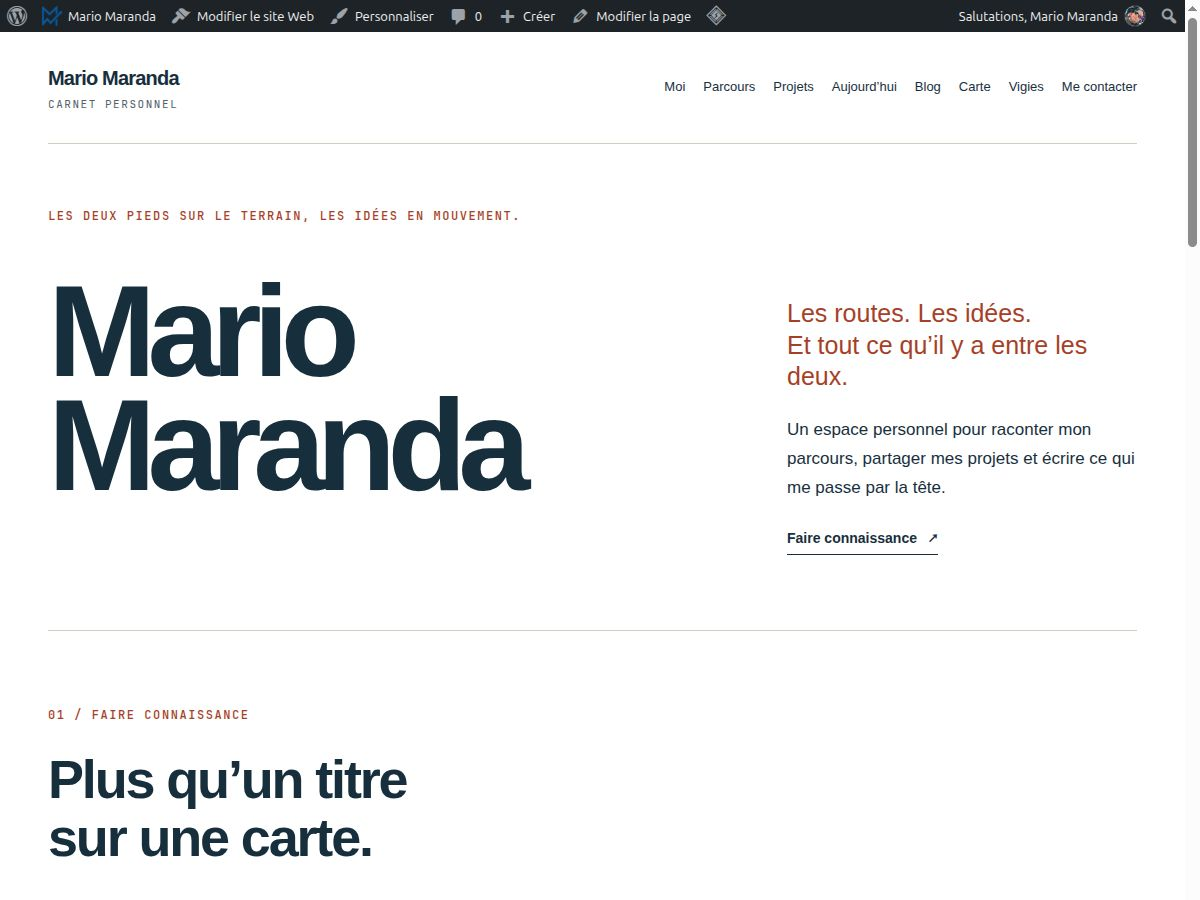
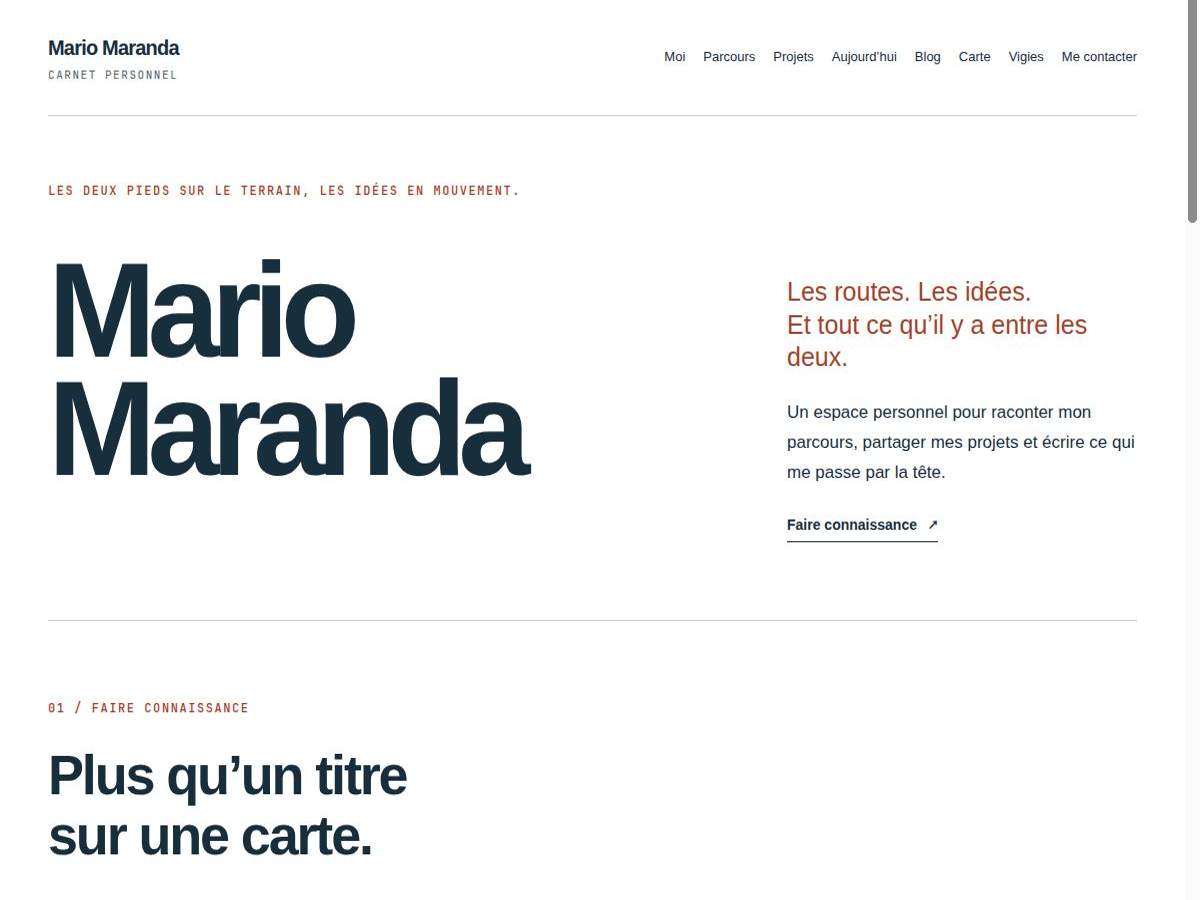
Crop admin toolbar from theme preview

diff --git a/style.css b/style.css
@@ -4,7 +4,7 @@ Theme URI: https://www.maranda.dev/
 Update URI: https://github.com/maranda-dev/maranda-wp-theme
 Author: Mario Maranda
 Description: Un thème WordPress en blocs pour un parcours personnel, des projets et un carnet libre.
-Version: 0.1.5
+Version: 0.1.6
 Requires at least: 6.6
 Requires PHP: 8.1
 Text Domain: maranda

diff --git a/functions.php b/functions.php
@@ -1,6 +1,6 @@
 <?php
 defined('ABSPATH') || exit;
-define('MARANDA_THEME_VERSION', '0.1.5');
+define('MARANDA_THEME_VERSION', '0.1.6');
 require_once get_theme_file_path('inc/vigie-record.php');
 require_once get_theme_file_path('inc/personal-note.php');
 require_once get_theme_file_path('inc/github-updates.php');
@@ -68,9 +68,9 @@ add_filter('post_link', static function ($url, $post, $leavename) {
 require_once get_theme_file_path('inc/maranda-contact.php');
 add_shortcode('maranda_map', static function () {
     wp_enqueue_style('maranda-leaflet', 'https://unpkg.com/leaflet@1.9.4/dist/leaflet.css', [], '1.9.4');
-    wp_enqueue_style('maranda-map', get_theme_file_uri('assets/maranda-map.css'), ['maranda-leaflet'], '0.1.5');
+    wp_enqueue_style('maranda-map', get_theme_file_uri('assets/maranda-map.css'), ['maranda-leaflet'], '0.1.6');
     wp_enqueue_script('maranda-leaflet', 'https://unpkg.com/leaflet@1.9.4/dist/leaflet.js', [], '1.9.4', true);
-    wp_enqueue_script('maranda-map', get_theme_file_uri('assets/carte-interactive.js'), ['maranda-leaflet'], '0.1.5', true);
+    wp_enqueue_script('maranda-map', get_theme_file_uri('assets/carte-interactive.js'), ['maranda-leaflet'], '0.1.6', true);
     $endpoint = rest_url('bsir/v1/public-map');
     if (isset($_GET['wpvibe_preview']) && is_string($_GET['wpvibe_preview'])) $endpoint = add_query_arg('wpvibe_preview', sanitize_text_field(wp_unslash($_GET['wpvibe_preview'])), $endpoint);
     ob_start(); ?>
@@ -133,7 +133,7 @@ add_action('rest_api_init', static function () {
 add_action('wp_enqueue_scripts', static function () {
     if (!is_page('carte-des-releves')) return;
     wp_enqueue_style('maranda-leaflet', 'https://unpkg.com/leaflet@1.9.4/dist/leaflet.css', [], '1.9.4');
-    wp_enqueue_style('maranda-map', get_theme_file_uri('assets/maranda-map.css'), ['maranda-leaflet'], '0.1.5');
+    wp_enqueue_style('maranda-map', get_theme_file_uri('assets/maranda-map.css'), ['maranda-leaflet'], '0.1.6');
 });
 
 /* Preserve the original Vigie cards and their editable WordPress fields. */
